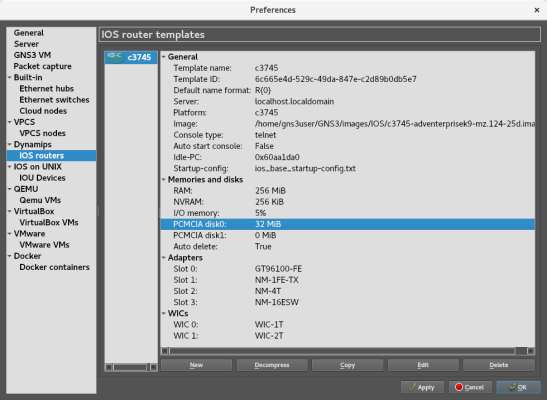
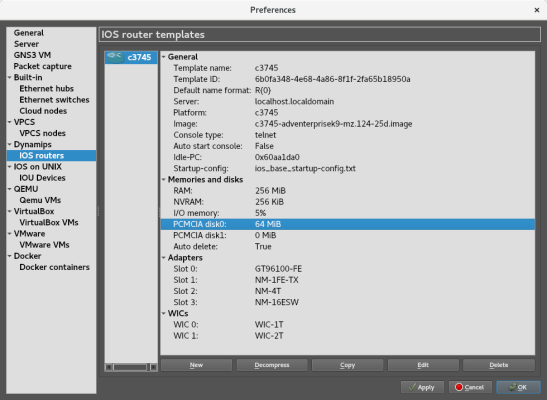
Continued updating documentation and editing images.

diff --git a/README.md b/README.md
@@ -18,7 +18,7 @@ This tutorial is broken down into three parts:
 - [Setting up the environment](#setting-up-the-environment "Setting up the environment")
 - [Running the Labs](#running-the-labs "Running the Labs")
 
->**NOTE** - Many thanks to David Bombal, Paul Browning, and many other incredible coders and network gurus (you know who you are :thumbsup: ).
+>**NOTE** - Many thanks to David Bombal, Paul Browning, and many other incredible network gurus and coders (you know who you are :thumbsup: ).
 
 -----
 
@@ -273,15 +273,17 @@ The IOS template's details appear. Note the memory for the Personal Computer Mem
 
 ![Preferences dialog](images/a23.png)
 
-Select the **Memories and disks** tab. Set the PCMCIA disk0 to 32 MiB and click **OK**:
+Select the **Memories and disks** tab. Set the PCMCIA disk0 to 64 MiB and click **OK**:
 
 ![Preferences dialog](images/a24.png)
 
-This brings you back to the template details page; click **OK** to return to the main window:
+This brings you back to the template details page. There is some good information here, such as the name of the startup configuration file:
 
 ![Preferences dialog](images/a25.png)
 
-Once you blah, blah, blah...
+ Once you are done, click **OK** to return to the main window.
+
+Now that you have finished setting up your lab environment, 
 
 ![Preferences dialog](images/gns3_16.png)
 
